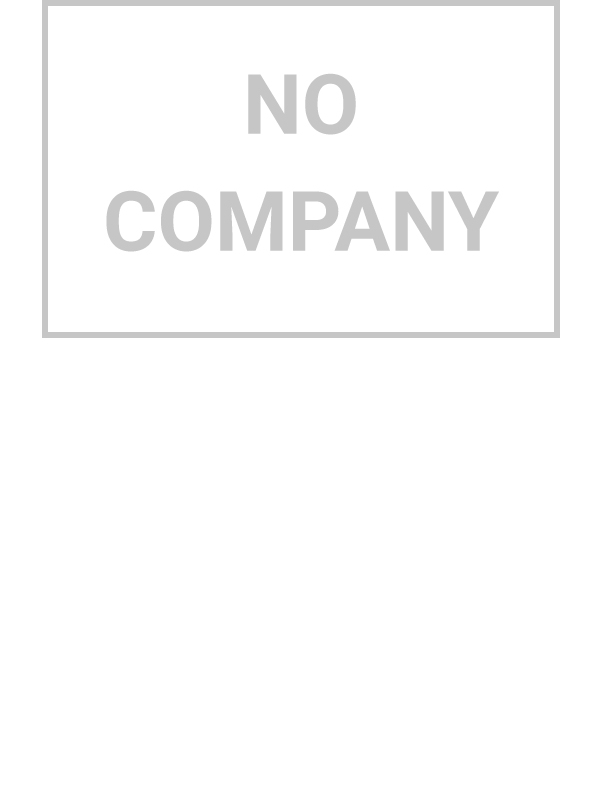
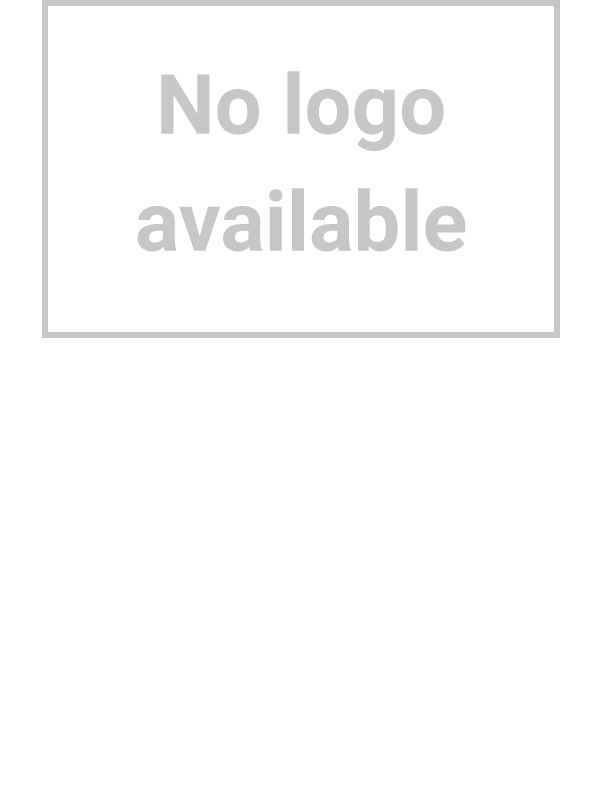
change Timeout duration and p_no-image

Changed region(s): [[0.18, 0.2188, 0.84, 0.3125], [0.27, 0.0625, 0.75, 0.1875]]

diff --git a/src/components/TheFilter.vue b/src/components/TheFilter.vue
@@ -243,7 +243,7 @@ export default {
       });
 
       this.updateCountryFilters();
-    }, 500);
+    }, 3000);
   },
 };
 </script>
